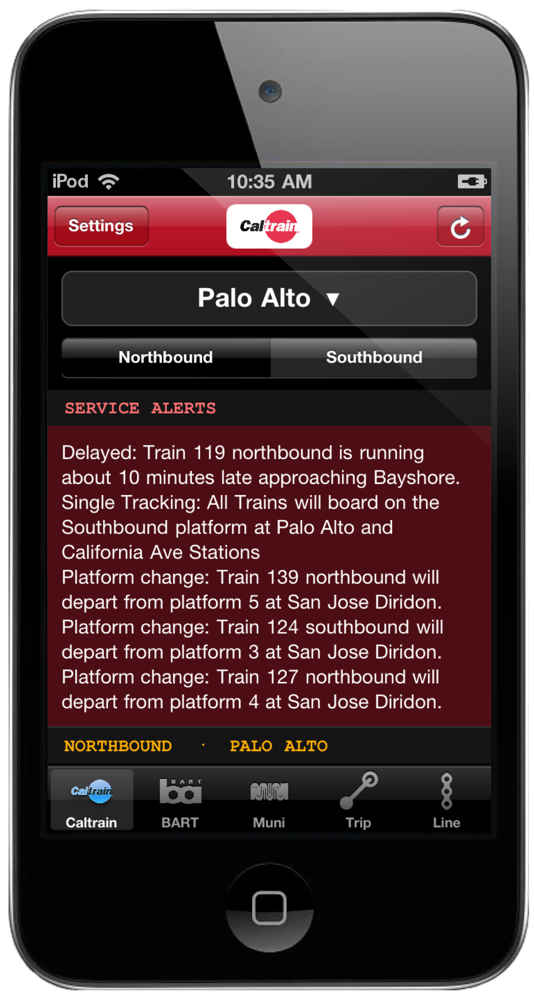
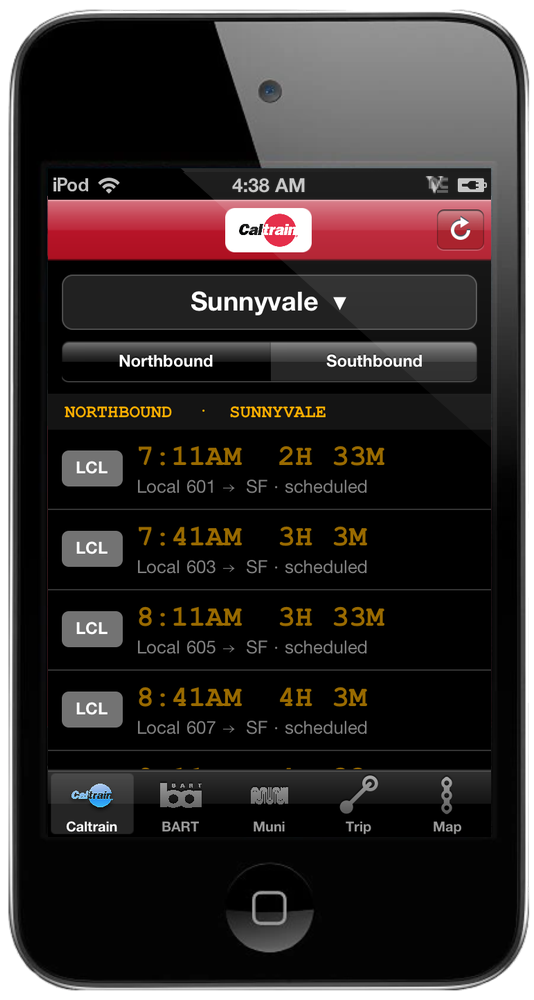
Site: Cards page and downloads, Next Train 1.1 with a clean departures board, Radio 1.1, home grid wraps four to a row

diff --git a/site/nexttrain.html b/site/nexttrain.html
@@ -13,9 +13,10 @@
 <li><a href="habits.html">Habits</a></li>
 <li class="on"><a href="nexttrain.html">Next Train</a></li>
 <li><a href="radio.html">Radio</a></li>
+<li><a href="cards.html">Cards</a></li>
 <li><a href="install.html">Install</a></li>
 </ul></div>
-<div id="sub"><div class="wrap"><span class="name">Next Train</span><nav><a class="on" href="nexttrain.html">Overview</a><a href="install.html">Install</a><a href="https://github.com/mannanshukla/nexttrain-ios4">Source</a><a class="buy" href="https://github.com/mannanshukla/nexttrain-ios4/releases/download/v1.0/NextTrain-1.0.ipa">Download</a></nav></div></div>
+<div id="sub"><div class="wrap"><span class="name">Next Train</span><nav><a class="on" href="nexttrain.html">Overview</a><a href="install.html">Install</a><a href="https://github.com/mannanshukla/nexttrain-ios4">Source</a><a class="buy" href="https://github.com/mannanshukla/nexttrain-ios4/releases/download/v1.1/NextTrain-1.1.ipa">Download</a></nav></div></div>
 <div class="hero"><div class="wrap">
   <h1>The Bay, by rail.</h1>
   <h2>Caltrain, BART and Muni on one iPod. Live times, trip planning, and a board that looks like the platform.</h2>
@@ -23,7 +24,7 @@
   <img src="img/caltrain-line.svg" class="line" alt="The Caltrain line, San Francisco to Gilroy, with express stops marked">
 </div></div>
 <div class="wrap">
-  <div class="feature"><div class="pic"><img src="img/trainboard-device.png" alt="The departure board"></div><div class="txt"><div class="board">NORTHBOUND · PALO ALTO</div><h3>The platform sign, <em>in amber.</em></h3><p>Pick your station once. The next trains come up like the board on the platform: local, limited or express, the minutes until it leaves, and whether it's running late. Bright means live, dim means timetable.</p></div></div>
+  <div class="feature"><div class="pic"><img src="img/trainboard-device.png" alt="The departure board"></div><div class="txt"><div class="board">NORTHBOUND · SUNNYVALE</div><h3>The platform sign, <em>in amber.</em></h3><p>Pick your station once. The next trains come up like the board on the platform: local, limited or express, the minutes until it leaves, and whether it's running late. Bright means live, dim means timetable.</p></div></div>
   <div class="feature flip"><div class="pic"><img src="img/trainrun-device.png" alt="Run for it?"></div><div class="txt"><h3>Run for it?</h3><p>Tap a train leaving in the next ten minutes and Laya weighs the minutes, your walk to the platform and when the next one comes. Run, jog, or let it go, with a percentage so you can argue with it. Service alerts sit at the top of the board and the trip planner.</p></div></div>
   <div class="feature"><div class="pic"><img src="img/trainask-device.png" alt="Just say it"></div><div class="txt"><h3>Just say it.</h3><p>"sf to mountain view, be there by 6." OpenRelay reads it, fills in the stations and the time, and the timetable does the rest. No typing station names into boxes.</p></div></div>
   <div class="feature flip"><div class="pic"><img src="img/traintrips-device.png" alt="Trip results"></div><div class="txt"><h3>Leave at. Arrive by.</h3><p>Every train that gets you there, with the ride time, the number of stops and the Clipper fare. Tap one for the full stop list.</p></div></div>
@@ -32,6 +33,6 @@
   <div class="feature"><div class="pic"><img src="img/trainnight-device.png" alt="Night style, Muni Metro"></div><div class="txt"><h3>Lights out.</h3><p>The six Muni Metro lines in their colors on the night map. Every stop is a tap away from its live arrivals.</p></div></div>
   <div class="feature"><div class="pic"><img src="img/trainmapbart-device.png" alt="BART lines on the map"></div><div class="txt"><p><img src="img/logo-bart.png" alt="BART" height="40"></p><h3>Every BART train. <em>Every minute.</em></h3><p>Pick any of the 50 stations and the board fills with the next trains, the line color, platform, car count and how late it's running. It refreshes itself every minute while you look at it. Plan a trip and BART's own planner answers with transfers and the Clipper fare. Every line is on the map in its color, and tapping a station opens its board.</p></div></div>
   <div class="feature flip"><div class="pic"><img src="img/trainmetro-device.png" alt="The N Judah stop list"></div><div class="txt"><p><img src="img/logo-muni.png" alt="Muni" height="40"></p><h3>Muni Metro, <em>and your stops.</em></h3><p>J, K, L, M, N and T with every stop in order, tap one for the next trains and save it. Or type the stop number from the pole and it's on your board for good, with the next arrivals for every line that stops there. Buses, Metro, cable cars. All 3,240 stop names are built in so you know you typed the right one.</p></div></div>
-  <div class="buy"><a class="btn" href="https://github.com/mannanshukla/nexttrain-ios4/releases/download/v1.0/NextTrain-1.0.ipa">Download Next Train</a><small>Version 1.0. 1.5 MB with the Bay map and imagery built in. Caltrain timetable and the Bay map built in, timetable valid through January 2027. BART is live with no setup. Caltrain live times and Muni need a free token from 511.org, entered in the Settings app. Runs on iOS 4.3 to 6.1. <a href="https://github.com/mannanshukla/nexttrain-ios4">Source on GitHub</a>.</small></div>
+  <div class="buy"><a class="btn" href="https://github.com/mannanshukla/nexttrain-ios4/releases/download/v1.1/NextTrain-1.1.ipa">Download Next Train</a><small>Version 1.1. 1.5 MB with the Bay map and imagery built in. Caltrain timetable and the Bay map built in, timetable valid through January 2027. BART is live with no setup. Caltrain live times and Muni need a free token from 511.org, entered in the Settings app. Runs on iOS 4.3 to 6.1. <a href="https://github.com/mannanshukla/nexttrain-ios4">Source on GitHub</a>.</small></div>
 </div>
 <footer>A fan project. Not affiliated with Caltrain, BART, SFMTA, MTC 511, OpenRelay Inc. or Apple Inc. The Caltrain, BART and Muni marks belong to their owners and are used to identify the services. Map data © OpenStreetMap contributors, ODbL. iPod and iPod touch are trademarks of Apple Inc.</footer><script src="carousel.js"></script></body></html>

diff --git a/site/cards.html b/site/cards.html
@@ -1,0 +1,33 @@
+<!DOCTYPE html>
+<html lang="en"><head><meta charset="utf-8"><title>Cards for iPod touch</title><meta name="viewport" content="width=device-width, initial-scale=1">
+<meta name="description" content="Flashcards you write in Markdown on your Mac and study on your iPod. Index cards on an oak desk, a flip to check, a stamp to answer.">
+<meta property="og:type" content="website"><meta property="og:title" content="Cards for iPod touch"><meta property="og:description" content="Flashcards you write in Markdown on your Mac and study on your iPod. Index cards on an oak desk, a flip to check, a stamp to answer.">
+<meta property="og:image" content="https://mannan.dev/openrelay-ios4/img/og.jpg"><meta property="og:image:width" content="1200"><meta property="og:image:height" content="630">
+<meta name="twitter:card" content="summary_large_image"><meta name="twitter:title" content="Cards for iPod touch"><meta name="twitter:description" content="Flashcards you write in Markdown on your Mac and study on your iPod. Index cards on an oak desk, a flip to check, a stamp to answer."><meta name="twitter:image" content="https://mannan.dev/openrelay-ios4/img/og.jpg">
+<link rel="icon" href="img/icon.png"><link rel="stylesheet" href="style.css"></head><body>
+<div id="gn"><input type="checkbox" id="menu"><label class="burger" for="menu" aria-label="Menu">&#9776;</label><ul>
+<li><a href="index.html" class="home" title="iPod touch 4"><svg width="22" height="22" viewBox="0 0 22 22" aria-label="iPod touch 4"><circle cx="11" cy="11" r="10" fill="none" stroke="#ddd" stroke-width="1.6"/><rect x="7" y="7" width="8" height="8" rx="2" fill="none" stroke="#ddd" stroke-width="1.6"/></svg></a></li>
+<li><a href="openrelay.html">OpenRelay</a></li>
+<li><a href="layaball.html">Laya Ball</a></li>
+<li><a href="sets.html">Sets</a></li>
+<li><a href="habits.html">Habits</a></li>
+<li><a href="nexttrain.html">Next Train</a></li>
+<li><a href="radio.html">Radio</a></li>
+<li class="on"><a href="cards.html">Cards</a></li>
+<li><a href="install.html">Install</a></li>
+</ul></div>
+<div id="sub"><div class="wrap"><span class="name">Cards</span><nav><a class="on" href="cards.html">Overview</a><a href="install.html">Install</a><a href="https://github.com/mannanshukla/cards-ios4">Source</a><a class="buy" href="https://github.com/mannanshukla/cards-ios4/releases/download/v1.0/Cards-1.0.ipa">Download</a></nav></div></div>
+<div class="hero"><div class="wrap">
+  <h1>Write it down. Remember it.</h1>
+  <h2>Flashcards you write in Markdown on your Mac and study on your iPod.</h2>
+  <img src="img/cardsdecks-device.png" width="300" alt="Cards">
+</div></div>
+<div class="wrap">
+  <div class="feature"><div class="pic"><img src="img/cardsdecks-device.png" alt="Decks as stacks of index cards"></div><div class="txt"><h3>Stacks, <em>not lists.</em></h3><p>Every deck is a stack of index cards on an oak desk, and bigger decks stack taller. A red badge says how many are due. Folders on the Mac become sections on the desk, so Japanese stays with Japanese.</p></div></div>
+  <div class="feature flip"><div class="pic"><img src="img/cardswrite-device.png" alt="A longer card"></div><div class="txt"><h3>Write cards like notes.</h3><p>One Markdown file is one deck. <code>水[みず]::water</code> is a card, with the reading set above the kanji. Three colons make it work both ways, and a line with just a <code>?</code> splits a longer front from its back. Bold, italics, code and lists come through.</p></div></div>
+  <div class="feature"><div class="pic"><img src="img/cardsstamp-device.png" alt="The answer and the four stamps"></div><div class="txt"><h3>Turn it over. <em>Stamp it.</em></h3><p>Tap the card and it flips. Answer with one of four stamps, Again, Hard, Good or Easy, each marked with when you'll see the card next. FSRS, the same scheduler built into Anki, picks that day so you remember nine cards in ten, and you can change the target in Settings.</p></div></div>
+  <div class="feature flip"><div class="pic"><img src="img/cardsstats-device.png" alt="The Stats tab"></div><div class="txt"><h3>Every answer, <em>on graph paper.</em></h3><p>Stats has its own tab. The last 30 days in the colors of the stamps, what comes due over the next 30, how much you remember week by week against the 90% you aimed for, and where every card stands. Below the charts, each day you studied gets a violet stamp on a date due slip.</p></div></div>
+  <div class="feature"><div class="pic"><img src="img/cardsfront-device.png" alt="A card front"></div><div class="txt"><h3>One command to sync.</h3><p>Plug in the iPod and run <code>cards sync</code>. New and edited cards go over, and every answer comes back to your Mac. Reinstall the app and your history comes back too. <code>cards check</code> shows every deck it found, and warns about two cards with the same front.</p></div></div>
+  <div class="buy"><a class="btn" href="https://github.com/mannanshukla/cards-ios4/releases/download/v1.0/Cards-1.0.ipa">Download Cards</a><small>Version 1.0. 1.3 MB. The Mac side is the <code>cards</code> script in the repo: Python 3, nothing to install. Your cards stay on your Mac and your iPod. <a href="https://github.com/mannanshukla/cards-ios4">Source on GitHub</a>.</small></div>
+</div>
+<footer>Independent projects, not affiliated with OpenRelay Inc. or Apple Inc. iPod and iPod touch are trademarks of Apple Inc.</footer><script src="carousel.js"></script></body></html>

diff --git a/site/index.html b/site/index.html
@@ -1,9 +1,9 @@
 <!DOCTYPE html>
 <html lang="en"><head><meta charset="utf-8"><title>AI apps for iPod touch 4</title><meta name="viewport" content="width=device-width, initial-scale=1">
-<meta name="description" content="Six native apps for a 2010 iPod touch, running open models through OpenRelay.">
-<meta property="og:type" content="website"><meta property="og:title" content="AI apps for iPod touch 4"><meta property="og:description" content="Six native apps for a 2010 iPod touch, running open models through OpenRelay.">
+<meta name="description" content="Seven native apps for a 2010 iPod touch, a few of them running open models through OpenRelay.">
+<meta property="og:type" content="website"><meta property="og:title" content="AI apps for iPod touch 4"><meta property="og:description" content="Seven native apps for a 2010 iPod touch, a few of them running open models through OpenRelay.">
 <meta property="og:image" content="https://mannan.dev/openrelay-ios4/img/og.jpg"><meta property="og:image:width" content="1200"><meta property="og:image:height" content="630">
-<meta name="twitter:card" content="summary_large_image"><meta name="twitter:title" content="AI apps for iPod touch 4"><meta name="twitter:description" content="Six native apps for a 2010 iPod touch, running open models through OpenRelay."><meta name="twitter:image" content="https://mannan.dev/openrelay-ios4/img/og.jpg">
+<meta name="twitter:card" content="summary_large_image"><meta name="twitter:title" content="AI apps for iPod touch 4"><meta name="twitter:description" content="Seven native apps for a 2010 iPod touch, a few of them running open models through OpenRelay."><meta name="twitter:image" content="https://mannan.dev/openrelay-ios4/img/og.jpg">
 <link rel="icon" href="img/icon.png"><link rel="stylesheet" href="style.css"></head><body>
 <div id="gn"><input type="checkbox" id="menu"><label class="burger" for="menu" aria-label="Menu">&#9776;</label><ul>
 <li class="on"><a href="index.html" class="home" title="iPod touch 4"><svg width="22" height="22" viewBox="0 0 22 22" aria-label="iPod touch 4"><circle cx="11" cy="11" r="10" fill="none" stroke="#ddd" stroke-width="1.6"/><rect x="7" y="7" width="8" height="8" rx="2" fill="none" stroke="#ddd" stroke-width="1.6"/></svg></a></li>
@@ -13,11 +13,12 @@
 <li><a href="habits.html">Habits</a></li>
 <li><a href="nexttrain.html">Next Train</a></li>
 <li><a href="radio.html">Radio</a></li>
+<li><a href="cards.html">Cards</a></li>
 <li><a href="install.html">Install</a></li>
 </ul></div>
 <div class="hero"><div class="wrap">
   <h1>The iPod touch. Smarter.</h1>
-  <h2>Six native apps that bring today's open models to iOS 4.</h2>
+  <h2>Seven native apps for iOS 4. A few of them run today's open models.</h2>
 </div></div>
 <div class="wrap">
   <div class="trio">
@@ -27,7 +28,8 @@
     <a class="card" href="habits.html"><img src="img/habitstoday-device.png" alt="Habits"><h3>Habits</h3><p>Small things, every day.</p><span class="more">Learn more &rsaquo;</span></a>
     <a class="card" href="nexttrain.html"><img src="img/trainboard-device.png" alt="Next Train"><h3>Next Train</h3><p>Caltrain, BART and Muni. Live.</p><span class="more">Learn more &rsaquo;</span></a>
     <a class="card" href="radio.html"><img src="img/radiotuner-device.png" alt="Radio"><h3>Radio</h3><p>Forty stations. A real dial.</p><span class="more">Learn more &rsaquo;</span></a>
+    <a class="card" href="cards.html"><img src="img/cardsdecks-device.png" alt="Cards"><h3>Cards</h3><p>Flashcards, written in Markdown.</p><span class="more">Learn more &rsaquo;</span></a>
   </div>
-  <div class="buy"><a class="btn" href="install.html">How to install</a><small>Jailbroken iPod touch 4 or iPhone 4 on iOS 4.3 and up. Free, and open source: <a href="https://github.com/mannanshukla/openrelay-ios4">OpenRelay</a>, <a href="https://github.com/mannanshukla/layaball-ios4">Laya Ball</a>, <a href="https://github.com/mannanshukla/sets-ios4">Sets</a>, <a href="https://github.com/mannanshukla/habits-ios4">Habits</a>, <a href="https://github.com/mannanshukla/nexttrain-ios4">Next Train</a>, <a href="https://github.com/mannanshukla/radio-ios4">Radio</a>.</small></div>
+  <div class="buy"><a class="btn" href="install.html">How to install</a><small>Jailbroken iPod touch 4 or iPhone 4 on iOS 4.3 and up. Free, and open source: <a href="https://github.com/mannanshukla/openrelay-ios4">OpenRelay</a>, <a href="https://github.com/mannanshukla/layaball-ios4">Laya Ball</a>, <a href="https://github.com/mannanshukla/sets-ios4">Sets</a>, <a href="https://github.com/mannanshukla/habits-ios4">Habits</a>, <a href="https://github.com/mannanshukla/nexttrain-ios4">Next Train</a>, <a href="https://github.com/mannanshukla/radio-ios4">Radio</a>, <a href="https://github.com/mannanshukla/cards-ios4">Cards</a>.</small></div>
 </div>
 <footer>Independent projects, not affiliated with OpenRelay Inc. or Apple Inc. iPod and iPod touch are trademarks of Apple Inc.</footer></body></html>

diff --git a/site/install.html b/site/install.html
@@ -13,17 +13,19 @@
 <li><a href="habits.html">Habits</a></li>
 <li><a href="nexttrain.html">Next Train</a></li>
 <li><a href="radio.html">Radio</a></li>
+<li><a href="cards.html">Cards</a></li>
 <li class="on"><a href="install.html">Install</a></li>
 </ul></div>
-<div class="hero"><div class="wrap"><h1>Five minutes to install.</h1><h2>One setup. All six apps.</h2></div></div>
+<div class="hero"><div class="wrap"><h1>Five minutes to install.</h1><h2>One setup. All seven apps.</h2></div></div>
 <div class="wrap">
   <ol class="steps">
     <li>Start from a jailbroken iPod touch 4 or iPhone 4 on iOS 4.3 and up. <a href="https://github.com/LukeZGD/Legacy-iOS-Kit">Legacy iOS Kit</a> handles the downgrade and the jailbreak.</li>
     <li>Install <strong>AppSync for iOS 4</strong>, then <strong>TLSFix</strong> from <code>cydia.skyglow.es</code> and the certificate bundle at <code>tlsroot.litten.ca</code>. This gives iOS 4 modern HTTPS.</li>
     <li>Download an app and install it: <code>ideviceinstaller install OpenRelay-1.1.ipa</code></li>
     <li>Enter your OpenRelay API key in the app's Settings. One key works for all five. Laya Ball uses it too.</li>
+    <li>For Cards, put <code>tools/cards</code> from <a href="https://github.com/mannanshukla/cards-ios4">its repo</a> on your Mac's PATH, write decks as Markdown files in <code>~/Cards</code>, and run <code>cards sync</code> with the iPod plugged in.</li>
   </ol>
-  <div class="buy"><a class="btn" href="https://github.com/mannanshukla/openrelay-ios4/releases/download/v1.1/OpenRelay-1.1.ipa">OpenRelay</a> &nbsp; <a class="btn" href="https://github.com/mannanshukla/layaball-ios4/releases/download/v1.0/LayaBall-1.0.ipa">Laya Ball</a> &nbsp; <a class="btn" href="https://github.com/mannanshukla/sets-ios4/releases/download/v1.1/Sets-1.1.ipa">Sets</a> &nbsp; <a class="btn" href="https://github.com/mannanshukla/habits-ios4/releases/download/v1.0/Habits-1.0.ipa">Habits</a> &nbsp; <a class="btn" href="https://github.com/mannanshukla/nexttrain-ios4/releases/download/v1.0/NextTrain-1.0.ipa">Next Train</a> &nbsp; <a class="btn" href="https://github.com/mannanshukla/radio-ios4/releases/download/v1.1/Radio-1.1.ipa">Radio</a></div>
+  <div class="buy"><a class="btn" href="https://github.com/mannanshukla/openrelay-ios4/releases/download/v1.1/OpenRelay-1.1.ipa">OpenRelay</a> &nbsp; <a class="btn" href="https://github.com/mannanshukla/layaball-ios4/releases/download/v1.0/LayaBall-1.0.ipa">Laya Ball</a> &nbsp; <a class="btn" href="https://github.com/mannanshukla/sets-ios4/releases/download/v1.1/Sets-1.1.ipa">Sets</a> &nbsp; <a class="btn" href="https://github.com/mannanshukla/habits-ios4/releases/download/v1.0/Habits-1.0.ipa">Habits</a> &nbsp; <a class="btn" href="https://github.com/mannanshukla/nexttrain-ios4/releases/download/v1.1/NextTrain-1.1.ipa">Next Train</a> &nbsp; <a class="btn" href="https://github.com/mannanshukla/radio-ios4/releases/download/v1.1/Radio-1.1.ipa">Radio</a> &nbsp; <a class="btn" href="https://github.com/mannanshukla/cards-ios4/releases/download/v1.0/Cards-1.0.ipa">Cards</a></div>
 </div>
 <div class="wrap"><p style="color:#666;font-size:14px;text-align:center;margin:0 0 30px">Rather build it yourself? Every app is on GitHub with the toolchain written up: <a href="https://github.com/mannanshukla?tab=repositories&q=ios4">github.com/mannanshukla</a>.</p></div>
 <footer>Independent projects, not affiliated with OpenRelay Inc. or Apple Inc. iPod and iPod touch are trademarks of Apple Inc.</footer></body></html>

diff --git a/site/radio.html b/site/radio.html
@@ -13,6 +13,7 @@
 <li><a href="habits.html">Habits</a></li>
 <li><a href="nexttrain.html">Next Train</a></li>
 <li class="on"><a href="radio.html">Radio</a></li>
+<li><a href="cards.html">Cards</a></li>
 <li><a href="install.html">Install</a></li>
 </ul></div>
 <div id="sub"><div class="wrap"><span class="name">Radio</span><nav><a class="on" href="radio.html">Overview</a><a href="install.html">Install</a><a href="https://github.com/mannanshukla/radio-ios4">Source</a><a class="buy" href="https://github.com/mannanshukla/radio-ios4/releases/download/v1.1/Radio-1.1.ipa">Download</a></nav></div></div>
@@ -25,6 +26,6 @@
   <div class="feature"><div class="pic"><img src="img/radiotuner-device.png" alt="The tuner"></div><div class="txt"><h3>A dial, not a dropdown.</h3><p>Brushed metal, four screws, a backlit glass window. Drag the band and the needle settles on the nearest station and starts it. Every station sits at its real frequency: KQED at 88.5, KALX at 90.7, WPRB at 103.3. Four bands: Bay Area, California, East Coast, Northwest.</p></div></div>
   <div class="feature flip"><div class="pic"><img src="img/radiolist-device.png" alt="The station list"></div><div class="txt"><h3>College radio, coast to coast.</h3><p>Berkeley, Stanford, Foothill, San Jose State and Santa Clara. Princeton, Rutgers, Columbia, NYU, Fordham, Harvard, MIT, Brown, Penn, Chicago, Chapel Hill and Georgia Tech. Plus KCSM jazz, KPFA, KEXP, KCRW, WFMU, Radio Paradise and six SomaFM channels from San Francisco. Add any Icecast or Shoutcast address of your own.</p></div></div>
   <div class="feature"><div class="pic"><img src="img/radiosleep-device.png" alt="Sleep timer"></div><div class="txt"><h3>Keeps playing. Then stops.</h3><p>Lock the iPod and it keeps going, with the station on the lock screen and the headphone clicker to pause or skip. A sleep timer for 15 minutes to two hours. The song title comes straight from the stream, the way Icecast servers have sent it since the nineties.</p></div></div>
-  <div class="buy"><a class="btn" href="https://github.com/mannanshukla/radio-ios4/releases/download/v1.1/Radio-1.1.ipa">Download Radio</a><small>Version 1.0. 43 KB. No account, no API key, nothing to set up. Stream addresses checked October 2026. <a href="https://github.com/mannanshukla/radio-ios4">Source on GitHub</a>.</small></div>
+  <div class="buy"><a class="btn" href="https://github.com/mannanshukla/radio-ios4/releases/download/v1.1/Radio-1.1.ipa">Download Radio</a><small>Version 1.1. 48 KB. No account, no API key, nothing to set up. Stream addresses checked October 2026. <a href="https://github.com/mannanshukla/radio-ios4">Source on GitHub</a>.</small></div>
 </div>
 <footer>Independent projects, not affiliated with OpenRelay Inc. or Apple Inc. iPod and iPod touch are trademarks of Apple Inc.</footer><script src="carousel.js"></script></body></html>

diff --git a/site/style.css b/site/style.css
@@ -35,8 +35,8 @@ a{color:#08c;text-decoration:none}a:hover{text-decoration:underline}
 .feature .txt p{font-size:17px;color:#555;margin:0;max-width:520px}
 .feature .txt p+p{margin-top:12px}
 /* overview cards (home) */
-.trio{display:flex;gap:16px;padding:36px 0 20px}
-.trio a.card{flex:1;text-align:center;color:#333;padding:20px 10px 24px;border-radius:10px;border:1px solid #e3e3e3;background:linear-gradient(#fff,#f3f3f3)}
+.trio{display:flex;flex-wrap:wrap;justify-content:center;gap:16px;padding:36px 0 20px}
+.trio a.card{flex:0 1 calc(25% - 12px);box-sizing:border-box;text-align:center;color:#333;padding:20px 10px 24px;border-radius:10px;border:1px solid #e3e3e3;background:linear-gradient(#fff,#f3f3f3)}
 .trio a.card:hover{text-decoration:none;border-color:#bbb}
 .trio img{width:140px;display:block;margin:0 auto 14px}
 .trio h3{font-size:21px;font-weight:normal;letter-spacing:-.8px;color:#111;margin:0 0 4px}
@@ -52,7 +52,7 @@ ol.steps{margin:20px 0;padding:0 0 0 22px;font-size:16px;color:#444}
 ol.steps li{margin:0 0 14px}
 code{font-family:Menlo,Monaco,monospace;font-size:13px;background:#f3f3f3;border:1px solid #ddd;border-radius:3px;padding:1px 5px}
 footer{text-align:center;color:#888;font-size:11px;padding:30px 0 40px;border-top:1px solid #e6e6e6;margin-top:30px}
-@media (max-width:760px){.hero h1{font-size:36px;letter-spacing:-1px}.hero h2{font-size:17px}.feature,.feature.flip{flex-direction:column;text-align:center;padding:32px 0}.feature .pic,.feature .pic img{width:220px}.feature .txt h3{font-size:26px}.trio{flex-direction:column}#gn a{font-size:12px}#sub .name{font-size:15px}#sub nav a{padding:4px 8px;font-size:12px}}
+@media (max-width:760px){.hero h1{font-size:36px;letter-spacing:-1px}.hero h2{font-size:17px}.feature,.feature.flip{flex-direction:column;text-align:center;padding:32px 0}.feature .pic,.feature .pic img{width:220px}.feature .txt h3{font-size:26px}.trio{flex-direction:column}.trio a.card{flex:1 1 auto}#gn a{font-size:12px}#sub .name{font-size:15px}#sub nav a{padding:4px 8px;font-size:12px}}
 
 .ct .hero{background:linear-gradient(#fff,#f7f7f7)}.ct .hero h1{color:#C8102E}.ct #sub .buy,.ct .btn{background:#C8102E;border-color:#8e0b20}.ct .line{display:block;width:100%;max-width:1180px;margin:0 auto 10px;border:1px solid #e3e3e3;border-radius:10px;background:#fff}.ct .feature .txt h3 em{color:#C8102E;font-style:normal}.ct .board{display:inline-block;background:#111;color:#FFB000;font-family:"Courier New",Courier,monospace;font-weight:bold;font-size:15px;letter-spacing:1px;padding:8px 14px;border-radius:6px;margin:0 0 14px}
 

diff --git a/site/openrelay.html b/site/openrelay.html
@@ -13,6 +13,7 @@
 <li><a href="habits.html">Habits</a></li>
 <li><a href="nexttrain.html">Next Train</a></li>
 <li><a href="radio.html">Radio</a></li>
+<li><a href="cards.html">Cards</a></li>
 <li><a href="install.html">Install</a></li>
 </ul></div>
 <div id="sub"><div class="wrap"><span class="name">OpenRelay</span><nav><a class="on" href="openrelay.html">Overview</a><a href="install.html">Install</a><a href="https://github.com/mannanshukla/openrelay-ios4">Source</a><a class="buy" href="https://github.com/mannanshukla/openrelay-ios4/releases/download/v1.1/OpenRelay-1.1.ipa">Download</a></nav></div></div>

diff --git a/site/habits.html b/site/habits.html
@@ -13,6 +13,7 @@
 <li class="on"><a href="habits.html">Habits</a></li>
 <li><a href="nexttrain.html">Next Train</a></li>
 <li><a href="radio.html">Radio</a></li>
+<li><a href="cards.html">Cards</a></li>
 <li><a href="install.html">Install</a></li>
 </ul></div>
 <div id="sub"><div class="wrap"><span class="name">Habits</span><nav><a class="on" href="habits.html">Overview</a><a href="install.html">Install</a><a href="https://github.com/mannanshukla/habits-ios4">Source</a><a class="buy" href="https://github.com/mannanshukla/habits-ios4/releases/download/v1.0/Habits-1.0.ipa">Download</a></nav></div></div>

diff --git a/site/layaball.html b/site/layaball.html
@@ -13,6 +13,7 @@
 <li><a href="habits.html">Habits</a></li>
 <li><a href="nexttrain.html">Next Train</a></li>
 <li><a href="radio.html">Radio</a></li>
+<li><a href="cards.html">Cards</a></li>
 <li><a href="install.html">Install</a></li>
 </ul></div>
 <div id="sub"><div class="wrap"><span class="name">Laya Ball</span><nav><a class="on" href="layaball.html">Overview</a><a href="install.html">Install</a><a href="https://github.com/mannanshukla/layaball-ios4">Source</a><a class="buy" href="https://github.com/mannanshukla/layaball-ios4/releases/download/v1.0/LayaBall-1.0.ipa">Download</a></nav></div></div>

diff --git a/site/sets.html b/site/sets.html
@@ -13,6 +13,7 @@
 <li><a href="habits.html">Habits</a></li>
 <li><a href="nexttrain.html">Next Train</a></li>
 <li><a href="radio.html">Radio</a></li>
+<li><a href="cards.html">Cards</a></li>
 <li><a href="install.html">Install</a></li>
 </ul></div>
 <div id="sub"><div class="wrap"><span class="name">Sets</span><nav><a class="on" href="sets.html">Overview</a><a href="install.html">Install</a><a href="https://github.com/mannanshukla/sets-ios4">Source</a><a class="buy" href="https://github.com/mannanshukla/sets-ios4/releases/download/v1.1/Sets-1.1.ipa">Download</a></nav></div></div>
